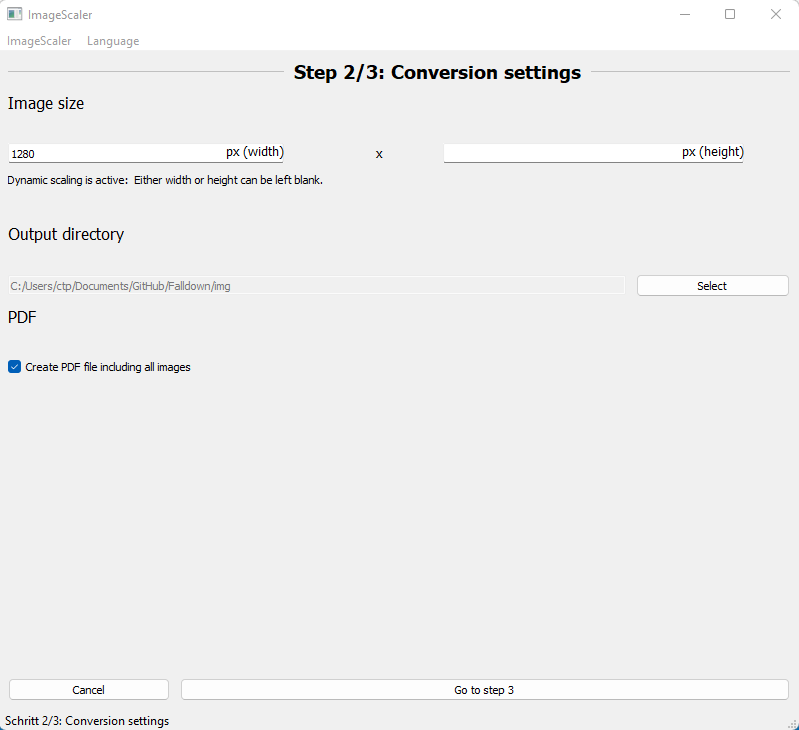
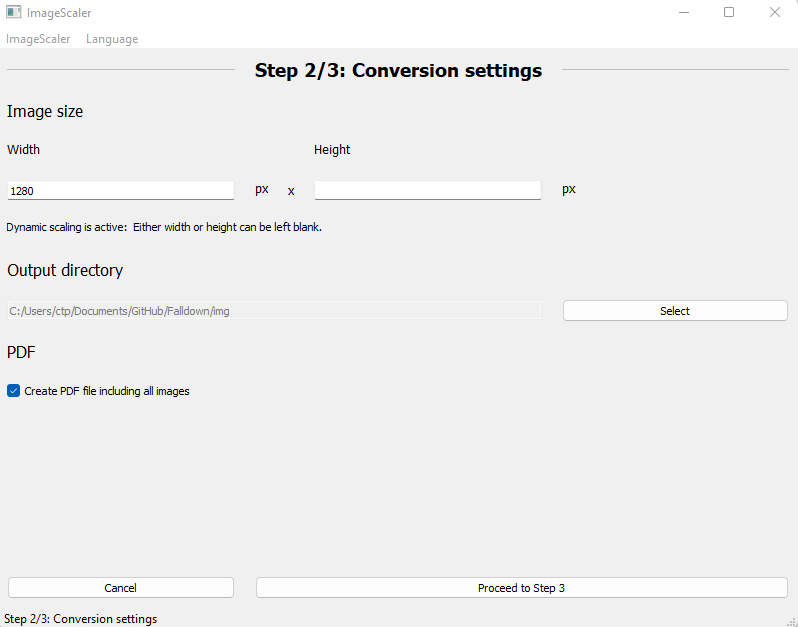
Improved GUI

diff --git a/src/main/python/gui/components/PhaseOutputWidget.py b/src/main/python/gui/components/PhaseOutputWidget.py
@@ -91,6 +91,14 @@ class PhaseOutputWidget(QWidget):
         self.label_image_size_width.setFont(self.font_label_info)
         self.label_image_size_width.setAlignment(Qt.AlignLeft)
 
+        self.label_image_size_px = QLabel(self.i18n.translate('GUI.PHASE.OUTPUT.LABEL.PX'))
+        self.label_image_size_px.setFont(self.font_label_info)
+        self.label_image_size_px.setAlignment(Qt.AlignLeft)
+
+        self.label_image_size_px2 = QLabel(self.i18n.translate('GUI.PHASE.OUTPUT.LABEL.PX'))
+        self.label_image_size_px2.setFont(self.font_label_info)
+        self.label_image_size_px2.setAlignment(Qt.AlignLeft)
+
         self.label_image_size_times = QLabel(self.i18n.translate('GUI.PHASE.OUTPUT.LABEL.IMAGE_SIZE_TIMES'))
         self.label_image_size_times.setFont(self.font_label_info)
         self.label_image_size_times.setAlignment(Qt.AlignCenter)
@@ -148,47 +156,51 @@ class PhaseOutputWidget(QWidget):
         # Layout
 
         self.grid = QGridLayout()
-        self.grid.setSpacing(10)
+        self.grid.setSpacing(20)
 
         # self.grid.addWidget(widget, row, column, rowspan, columnspan)
 
-        curr_gridid = 1
-        self.grid.addWidget(self.line_1, curr_gridid, 0, 1, 4)
-        self.grid.addWidget(self.label_header, curr_gridid, 4, 1, 2)
-        self.grid.addWidget(self.line_2, curr_gridid, 6, 1, 4)
+        curr_gridid = 0
+        self.grid.addWidget(self.line_1, curr_gridid, 0, 1, 1)
+        self.grid.addWidget(self.label_header, curr_gridid, 1, 1, 3)
+        self.grid.addWidget(self.line_2, curr_gridid, 4, 1, 1)
 
         curr_gridid += 1
-        self.grid.addWidget(self.label_image_size, curr_gridid, 0, 1, 1)
+        self.grid.addWidget(self.label_image_size, curr_gridid, 0, 1, 5)
 
         curr_gridid += 1
-        self.grid.addWidget(self.edit_image_size_width, curr_gridid, 0, 1, 4)
-        self.grid.addWidget(self.label_image_size_width, curr_gridid, 3, 1, 1)
-        self.grid.addWidget(self.label_image_size_times, curr_gridid, 4, 1, 1)
-        self.grid.addWidget(self.edit_image_size_height, curr_gridid, 5, 1, 4)
-        self.grid.addWidget(self.label_image_size_height, curr_gridid, 8, 1, 1)
+        self.grid.addWidget(self.label_image_size_width, curr_gridid, 0, 1, 3)
+        self.grid.addWidget(self.label_image_size_height, curr_gridid, 3, 1, 2)
 
         curr_gridid += 1
-        self.grid.addWidget(self.label_image_size_info, curr_gridid, 0, 1, 10)
+        self.grid.addWidget(self.edit_image_size_width, curr_gridid, 0, 1, 1)
+        self.grid.addWidget(self.label_image_size_px, curr_gridid, 1, 1, 1)
+        self.grid.addWidget(self.label_image_size_times, curr_gridid, 2, 1, 1)
+        self.grid.addWidget(self.edit_image_size_height, curr_gridid, 3, 1, 1)
+        self.grid.addWidget(self.label_image_size_px2, curr_gridid, 4, 1, 1)
+
+        curr_gridid += 1
+        self.grid.addWidget(self.label_image_size_info, curr_gridid, 0, 1, 5)
 
         curr_gridid += 1
         self.grid.addWidget(self.label_output_dir, curr_gridid, 0, 1, 1)
 
         curr_gridid += 1
-        self.grid.addWidget(self.edit_output_dir, curr_gridid, 0, 1, 7)
-        self.grid.addWidget(self.button_output_dir, curr_gridid, 7, 1, 3)
+        self.grid.addWidget(self.edit_output_dir, curr_gridid, 0, 1, 4)
+        self.grid.addWidget(self.button_output_dir, curr_gridid, 4, 1, 1)
 
         curr_gridid += 1
-        self.grid.addWidget(self.label_pdf, curr_gridid, 0, 1, 1)
+        self.grid.addWidget(self.label_pdf, curr_gridid, 0, 1, 5)
 
         curr_gridid += 1
-        self.grid.addWidget(self.checkbox_create_pdf, curr_gridid, 0, 1, 9)
+        self.grid.addWidget(self.checkbox_create_pdf, curr_gridid, 0, 1, 5)
 
         curr_gridid += 1
-        self.grid.addWidget(self.label_spacer, curr_gridid, 0, 7, 10)
+        self.grid.addWidget(self.label_spacer, curr_gridid, 0, 7, 5)
 
         curr_gridid += 8
-        self.grid.addWidget(self.button_cancel, curr_gridid, 0, 1, 2)
-        self.grid.addWidget(self.button_next_phase, curr_gridid, 2, 1, 8)
+        self.grid.addWidget(self.button_cancel, curr_gridid, 0, 1, 1)
+        self.grid.addWidget(self.button_next_phase, curr_gridid, 1, 1, 4)
 
         self.setLayout(self.grid)
         self._reset_enabled()

diff --git a/src/main/python/gui/components/PhaseDoneWidget.py b/src/main/python/gui/components/PhaseDoneWidget.py
@@ -52,11 +52,23 @@ class PhaseDoneWidget(QWidget):
         self.font_label_info.setBold(False)
         self.font_label_info.setPointSize(app_conf_get('label.info.font.size', 16))
 
+        self.line_css = 'background-color: #c0c0c0;'
+
         # Components
 
         self.label_done_header = QLabel(self.i18n.translate('GUI.PHASE.DONE.HEADER'))
         self.label_done_header.setFont(self.font_label_header)
         self.label_done_header.setAlignment(Qt.AlignLeft)
+
+        self.line_1 = QWidget()
+        self.line_1.setFixedHeight(1)
+        self.line_1.setSizePolicy(QSizePolicy.Expanding, QSizePolicy.Fixed)
+        self.line_1.setStyleSheet(self.line_css)
+
+        self.line_2 = QWidget()
+        self.line_2.setFixedHeight(1)
+        self.line_2.setSizePolicy(QSizePolicy.Expanding, QSizePolicy.Fixed)
+        self.line_2.setStyleSheet(self.line_css)
 
         self.label_done_text = QLabel(self.i18n.translate('GUI.PHASE.DONE.TEXT.{}'.format('SINGULAR' if self.nr_images_converted == 1 else 'PLURAL')).format(self.nr_images_converted, self.nr_images_all))
 
@@ -73,27 +85,29 @@ class PhaseDoneWidget(QWidget):
         # Layout
 
         self.grid = QGridLayout()
-        self.grid.setSpacing(10)
+        self.grid.setSpacing(20)
 
         # self.grid.addWidget(widget, row, column, rowspan, columnspan)
 
         curr_gridid = 0
-        self.grid.addWidget(self.label_done_header, curr_gridid, 0, 1, 10)
+        self.grid.addWidget(self.line_1, curr_gridid, 0, 1, 1)
+        self.grid.addWidget(self.label_done_header, curr_gridid, 1, 1, 3)
+        self.grid.addWidget(self.line_2, curr_gridid, 4, 1, 1)
 
         curr_gridid += 1
-        self.grid.addWidget(self.label_done_text, curr_gridid, 0, 1, 10)
+        self.grid.addWidget(self.label_done_text, curr_gridid, 0, 1, 5)
 
         curr_gridid += 1
         if self.pdf_created:
-            self.grid.addWidget(self.label_done_text_pdf, curr_gridid, 0, 1, 10)
+            self.grid.addWidget(self.label_done_text_pdf, curr_gridid, 0, 1, 5)
         else:
-            self.grid.addWidget(self.label_done_text_no_pdf, curr_gridid, 0, 1, 10)
+            self.grid.addWidget(self.label_done_text_no_pdf, curr_gridid, 0, 1, 5)
 
         curr_gridid += 1
-        self.grid.addWidget(self.label_spacer, curr_gridid, 0, 7, 10)
+        self.grid.addWidget(self.label_spacer, curr_gridid, 0, 7, 5)
 
         curr_gridid += 8
-        self.grid.addWidget(self.button_finish, curr_gridid, 0, 1, 10)
+        self.grid.addWidget(self.button_finish, curr_gridid, 0, 1, 5)
 
         self.setLayout(self.grid)
         self._reset_enabled()

diff --git a/src/main/python/gui/components/PhaseInputWidget.py b/src/main/python/gui/components/PhaseInputWidget.py
@@ -112,20 +112,18 @@ class PhaseInputWidget(QWidget):
         # Layout
 
         self.grid = QGridLayout()
-        self.grid.setSpacing(10)
+        self.grid.setSpacing(20)
 
         # self.grid.addWidget(widget, row, column, rowspan, columnspan)
 
-        curr_gridid = 1
+        curr_gridid = 0
         self.grid.addWidget(self.line_select_images_1, curr_gridid, 0, 1, 4)
         self.grid.addWidget(self.label_header, curr_gridid, 4, 1, 2)
         self.grid.addWidget(self.line_select_images_2, curr_gridid, 6, 1, 4)
 
         curr_gridid += 1
-        self.grid.addWidget(self.button_select_images, curr_gridid, 0, 1, 10)
-
-        curr_gridid += 1
-        self.grid.addWidget(self.label_dragndrop_hint, curr_gridid, 0, 1, 10)
+        self.grid.addWidget(self.button_select_images, curr_gridid, 0, 1, 5)
+        self.grid.addWidget(self.label_dragndrop_hint, curr_gridid, 5, 1, 5)
 
         curr_gridid += 1
         self.grid.addWidget(self.label_selected_images, curr_gridid, 0, 1, 10)
@@ -137,8 +135,8 @@ class PhaseInputWidget(QWidget):
         self.grid.addWidget(self.widget_list, curr_gridid, 0, 1, 10)
 
         curr_gridid += 1
-        self.grid.addWidget(self.button_cancel, curr_gridid, 0, 1, 2)
-        self.grid.addWidget(self.button_next_phase, curr_gridid, 2, 1, 8)
+        self.grid.addWidget(self.button_cancel, curr_gridid, 0, 1, 4)
+        self.grid.addWidget(self.button_next_phase, curr_gridid, 4, 1, 6)
 
         self.setLayout(self.grid)
         self._reset_enabled()

diff --git a/src/main/python/gui/components/PhaseConversionWidget.py b/src/main/python/gui/components/PhaseConversionWidget.py
@@ -150,11 +150,11 @@ class PhaseConversionWidget(QWidget):
         # Layout
 
         self.grid = QGridLayout()
-        self.grid.setSpacing(10)
+        self.grid.setSpacing(20)
 
         # self.grid.addWidget(widget, row, column, rowspan, columnspan)
         
-        curr_gridid = 1
+        curr_gridid = 0
         self.grid.addWidget(self.line_1, curr_gridid, 0, 1, 4)
         self.grid.addWidget(self.label_header, curr_gridid, 4, 1, 2)
         self.grid.addWidget(self.line_2, curr_gridid, 6, 1, 4)
@@ -190,11 +190,11 @@ class PhaseConversionWidget(QWidget):
         self.grid.addWidget(self.label_spacer, curr_gridid, 0, 7, 10)
 
         curr_gridid += 8
-        self.grid.addWidget(self.progressbar, curr_gridid, 0, 1, 10)
+        self.grid.addWidget(self.progressbar, curr_gridid, 1, 1, 9)
 
         curr_gridid += 1
-        self.grid.addWidget(self.button_cancel, curr_gridid, 0, 1, 2)
-        self.grid.addWidget(self.button_start, curr_gridid, 2, 1, 8)
+        self.grid.addWidget(self.button_cancel, curr_gridid, 0, 1, 4)
+        self.grid.addWidget(self.button_start, curr_gridid, 4, 1, 6)
 
         self.setLayout(self.grid)
         self._reset_enabled()

diff --git a/src/main/python/lib/AppConfig.py b/src/main/python/lib/AppConfig.py
@@ -20,7 +20,7 @@ _app_config = {
     'copyright': '© 2019-2023 Denis Meyer',
     'language.main': 'en',
     'window.width': 800,
-    'window.height': 700,
+    'window.height': 600,
     'about.logo.scaled.width': 280,
     'about.logo.scaled.height': 80,
     'label.header.font.size': 14,

diff --git a/src/main/python/gui/components/MainWindow.py b/src/main/python/gui/components/MainWindow.py
@@ -66,7 +66,7 @@ class MainWindow(QMainWindow):
 
         self.next_phase()
 
-        self.resize(app_conf_get('window.width', 800), app_conf_get('window.height', 700))
+        self.resize(app_conf_get('window.width', 800), app_conf_get('window.height', 600))
 
         self._center()
 

diff --git a/src/main/python/gui/components/PhaseWelcomeWidget.py b/src/main/python/gui/components/PhaseWelcomeWidget.py
@@ -79,7 +79,7 @@ class PhaseWelcomeWidget(QWidget):
         # Layout
 
         self.grid = QGridLayout()
-        self.grid.setSpacing(10)
+        self.grid.setSpacing(20)
 
         # self.grid.addWidget(widget, row, column, rowspan, columnspan)
 
